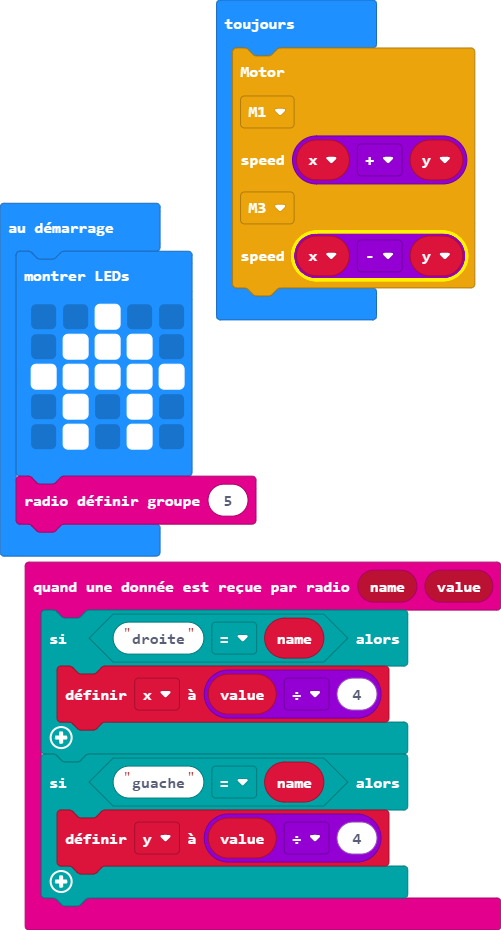
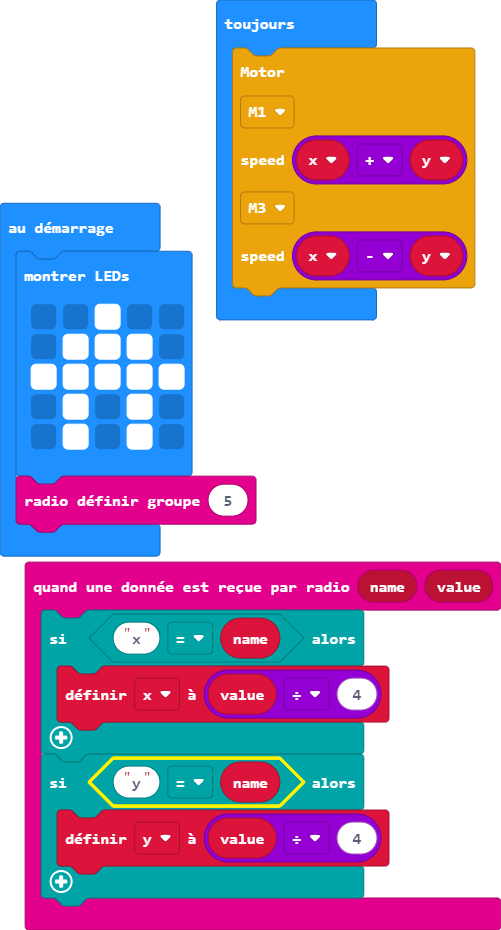
Mise à jour pxt.json, main.blocks, main.ts

diff --git a/main.ts b/main.ts
@@ -1,8 +1,8 @@
 radio.onReceivedValue(function (name, value) {
-    if ("droite" == name) {
+    if ("x" == name) {
         x = value / 4
     }
-    if ("guache" == name) {
+    if ("y" == name) {
         y = value / 4
     }
 })
